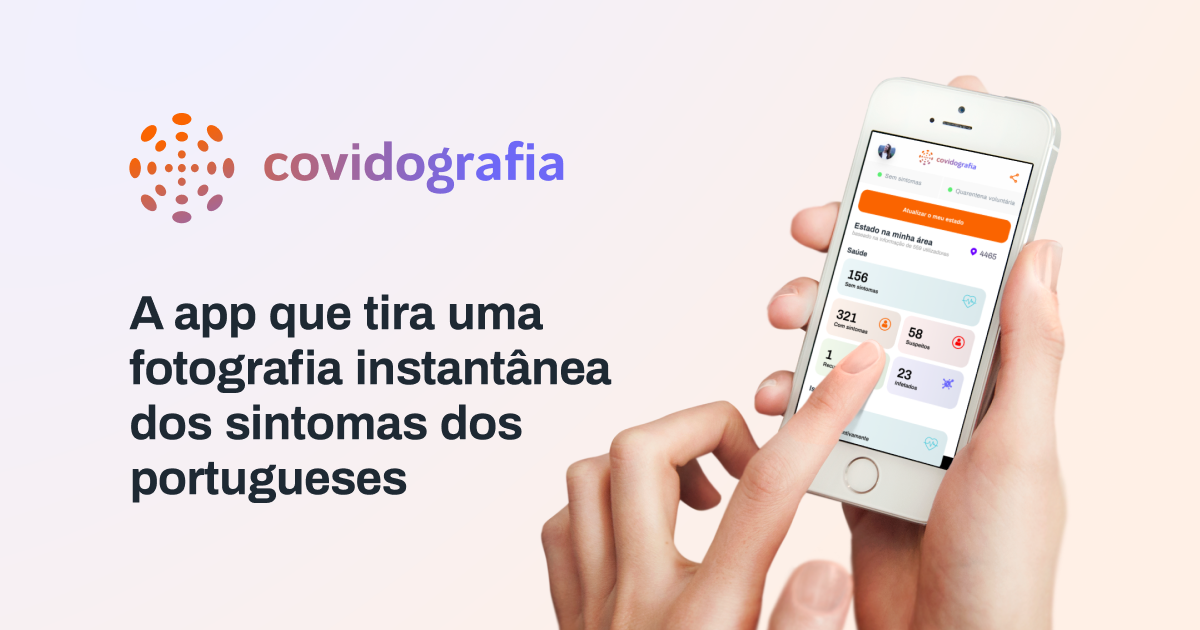
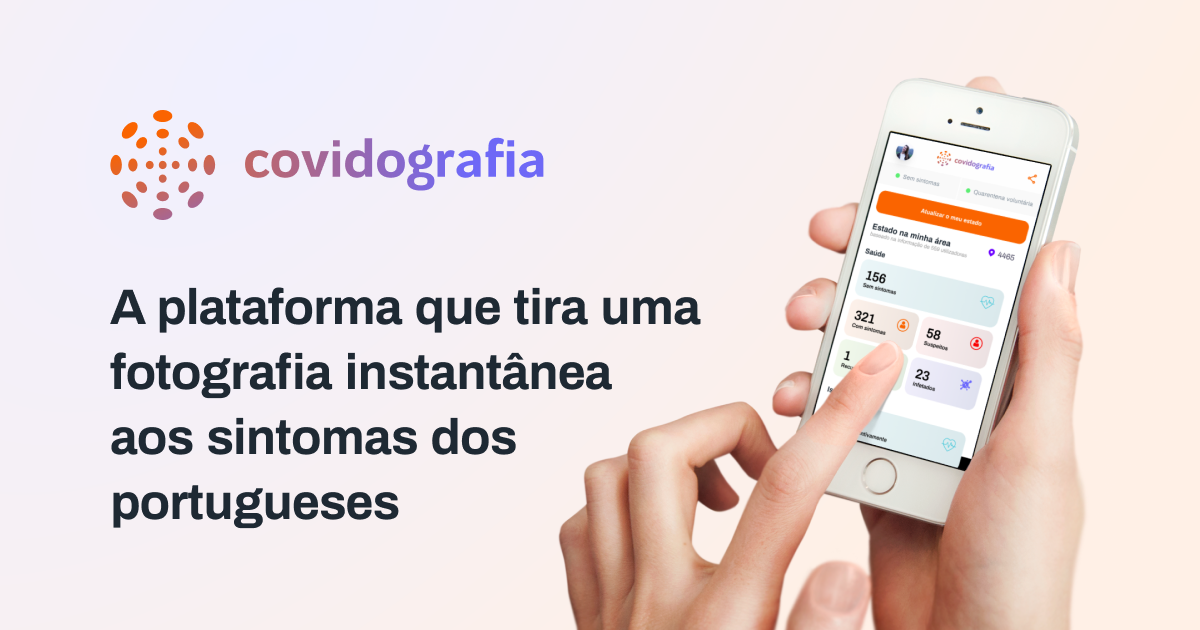
feat: update copy and sharable image

diff --git a/src/sections/para-que-serve/index.jsx b/src/sections/para-que-serve/index.jsx
@@ -26,31 +26,31 @@ const ParaQueServe = () => {
       </div>
       <div className={styles.subtitle}>
         <Typography weight="bold">
-          O Covidografia recolhe informação, em tempo real, sobre os sintomas
-          dos portugueses para ajudar as autoridades de saúde
+          A Covidografia reúne informação, em tempo real, sobre os sintomas dos
+          portugueses para melhor se avaliar a propagação da pandemia
         </Typography>
       </div>
       <div className={styles.content}>
         <div className={styles.column}>
           <Typography color="gray" variant="mediumBody" weight="medium">
-            Este serviço permite aos utilizadores da aplicação{" "}
+            Esta recolha permite aos utilizadores da plataforma{" "}
             <strong>
-              acompanhar, em tempo real, o impacto da pandemia na zona onde se
-              encontram
+              acompanhar, em tempo real, os sintomas de outros utilizadores na
+              mesma área geográfica
             </strong>
-            , com base nas actualizações enviadas por todos os utilizadores.
+            , com base em atualizações feitas pelos próprios.
             <br />
-            <br />É ainda permitido aos cidadãos indicarem, de forma regular,
-            quais os seus sintomas, em particular aqueles que estão associados
-            ao COVID-19.
+            <br />
+            Os utilizadores devem indicar, de forma regular, quais os seus
+            sintomas, em particular aqueles que estão associados ao COVID-19.
           </Typography>
         </div>
         <div className={styles.column}>
           <Typography color="gray" variant="mediumBody" weight="medium">
-            Esta informação será agregada e partilhada com as autoridades
-            competentes que poderão depois dispor de informação importante para
-            tomarem as melhores decisões para o proteger e ajudar o país a
-            recuperar do impacto desta pandemia.
+            Respeitando sempre a privacidade dos utilizadores, esta informação
+            será agregada e partilhada com as autoridades de saúde, que poderão
+            depois utilizar esta informação para tomarem decisões que ajudem a
+            proteger os cidadãos desta pandemia.
             <br />
             <br />A privacidade dos dados recolhidos é tratada com o máximo
             cuidado. Leia os nossos{" "}

diff --git a/src/sections/hero/index.jsx b/src/sections/hero/index.jsx
@@ -48,9 +48,10 @@ const Hero = () => {
             weight="medium"
             className={styles.typography}
           >
-            A sua ajuda é fundamental para as autoridades de saúde acompanharem
-            os seus sintomas durante o surto de COVID-19. Veja a evolução da
-            pandemia na sua área de residência.
+            A colaboração de todos é fundamental para que as autoridades de
+            saúde possam acompanhar o desenvolvimento geográfico do surto de
+            COVID-19. Só assim será possível avaliar com mais precisão a
+            evolução da pandemia na sua área de residência.
           </Typography>
           <Button
             href={data.site.siteMetadata.appSiteUrl}

diff --git a/gatsby-config.js b/gatsby-config.js
@@ -8,8 +8,9 @@ module.exports = {
     author: "Tech4Covid19",
     authorUrl: "https://tech4covid19.org",
     description:
-      "A app que tira uma fotografia instantânea dos sintomas dos portugueses",
-    keywords: "COVID-19, Coronavírus, app, fotografia, sintomas, portugueses",
+      "A plataforma que tira uma fotografia instantânea aos sintomas dos portugueses",
+    keywords:
+      "COVID-19, Coronavírus, app, plataforma, fotografia, sintomas, portugueses",
     appSiteUrl: "https://app.covidografia.pt",
   },
   plugins: [

diff --git a/src/sections/como-usar/index.jsx b/src/sections/como-usar/index.jsx
@@ -76,7 +76,7 @@ const ComoUsar = () => {
             </Typography>
             <div className={styles.columnSubTitle}>
               <Typography color="gray" variant="mediumBody" weight="medium">
-                Responda a algumas questões sobre sintomas, isolamento, etc
+                Responda a algumas questões sobre sintomas, isolamento, etc.
               </Typography>
             </div>
 

diff --git a/src/components/seo/index.jsx b/src/components/seo/index.jsx
@@ -45,7 +45,7 @@ function SEO({ title, description, keywords }) {
       />
       <meta
         property="og:image"
-        content={`${siteUrl}/images/covidografia-share.png`}
+        content={`${siteUrl}/images/covidografia-share.png?v2`}
       />
     </Helmet>
   );
